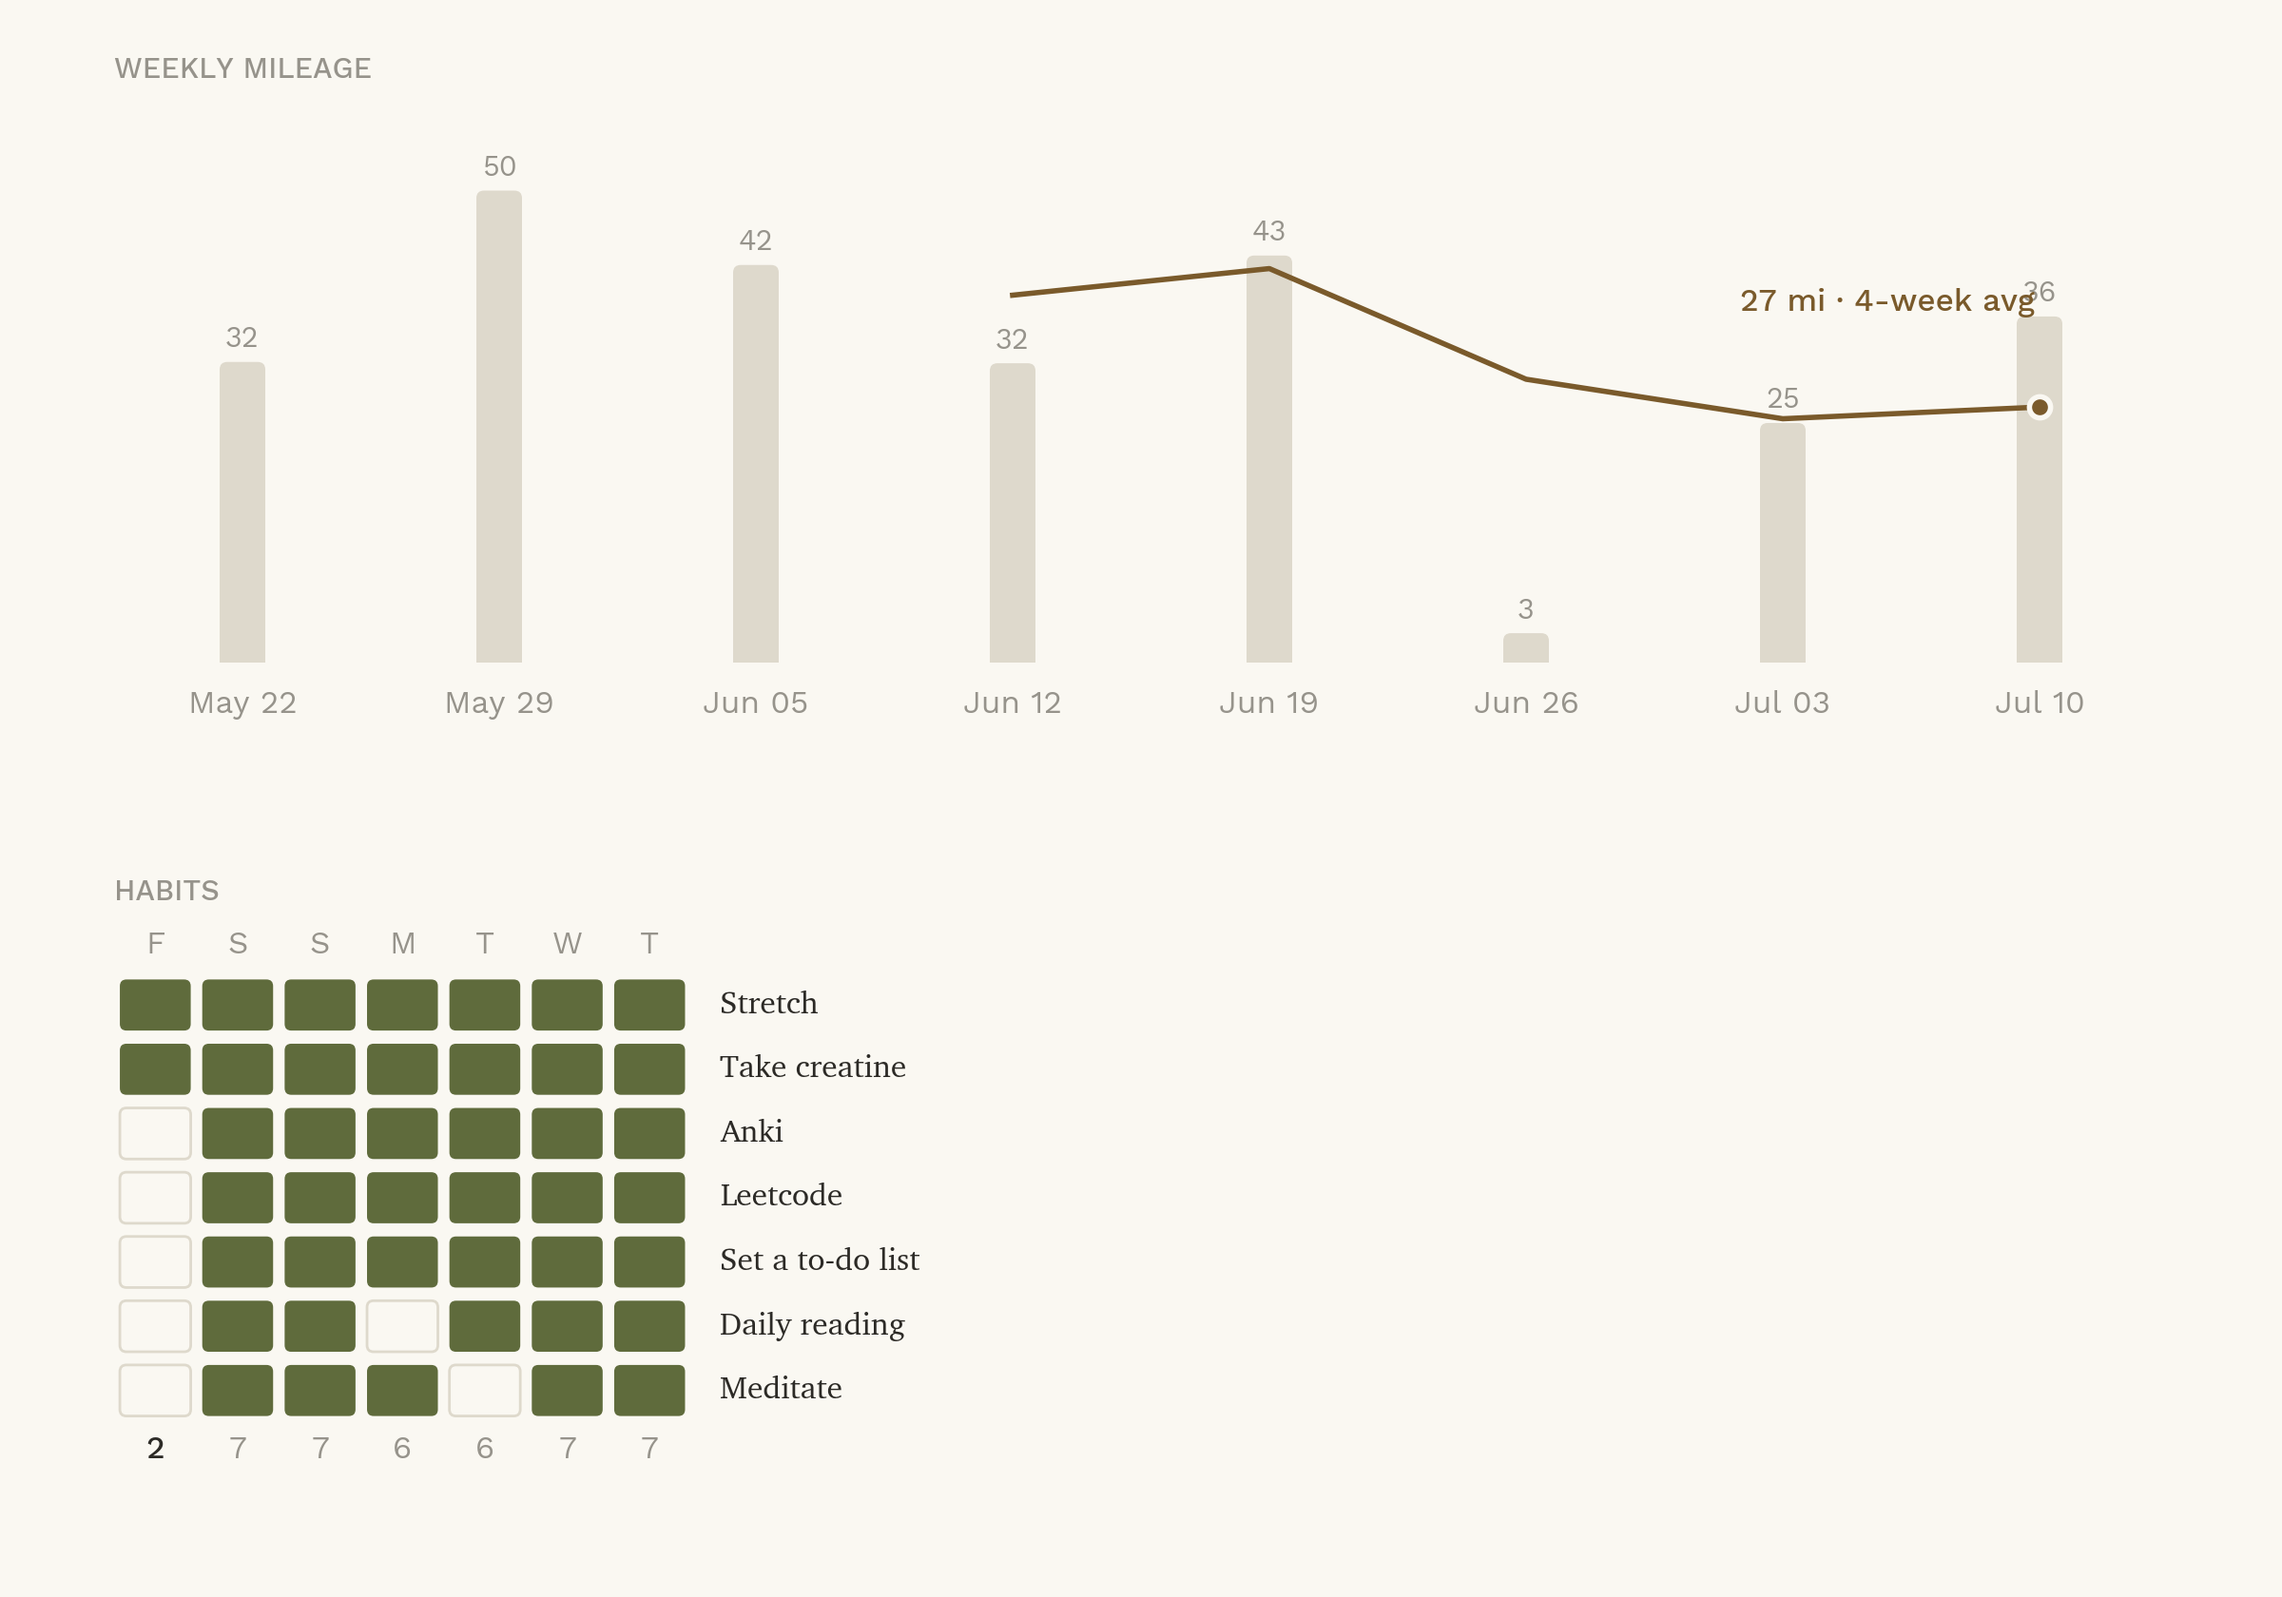
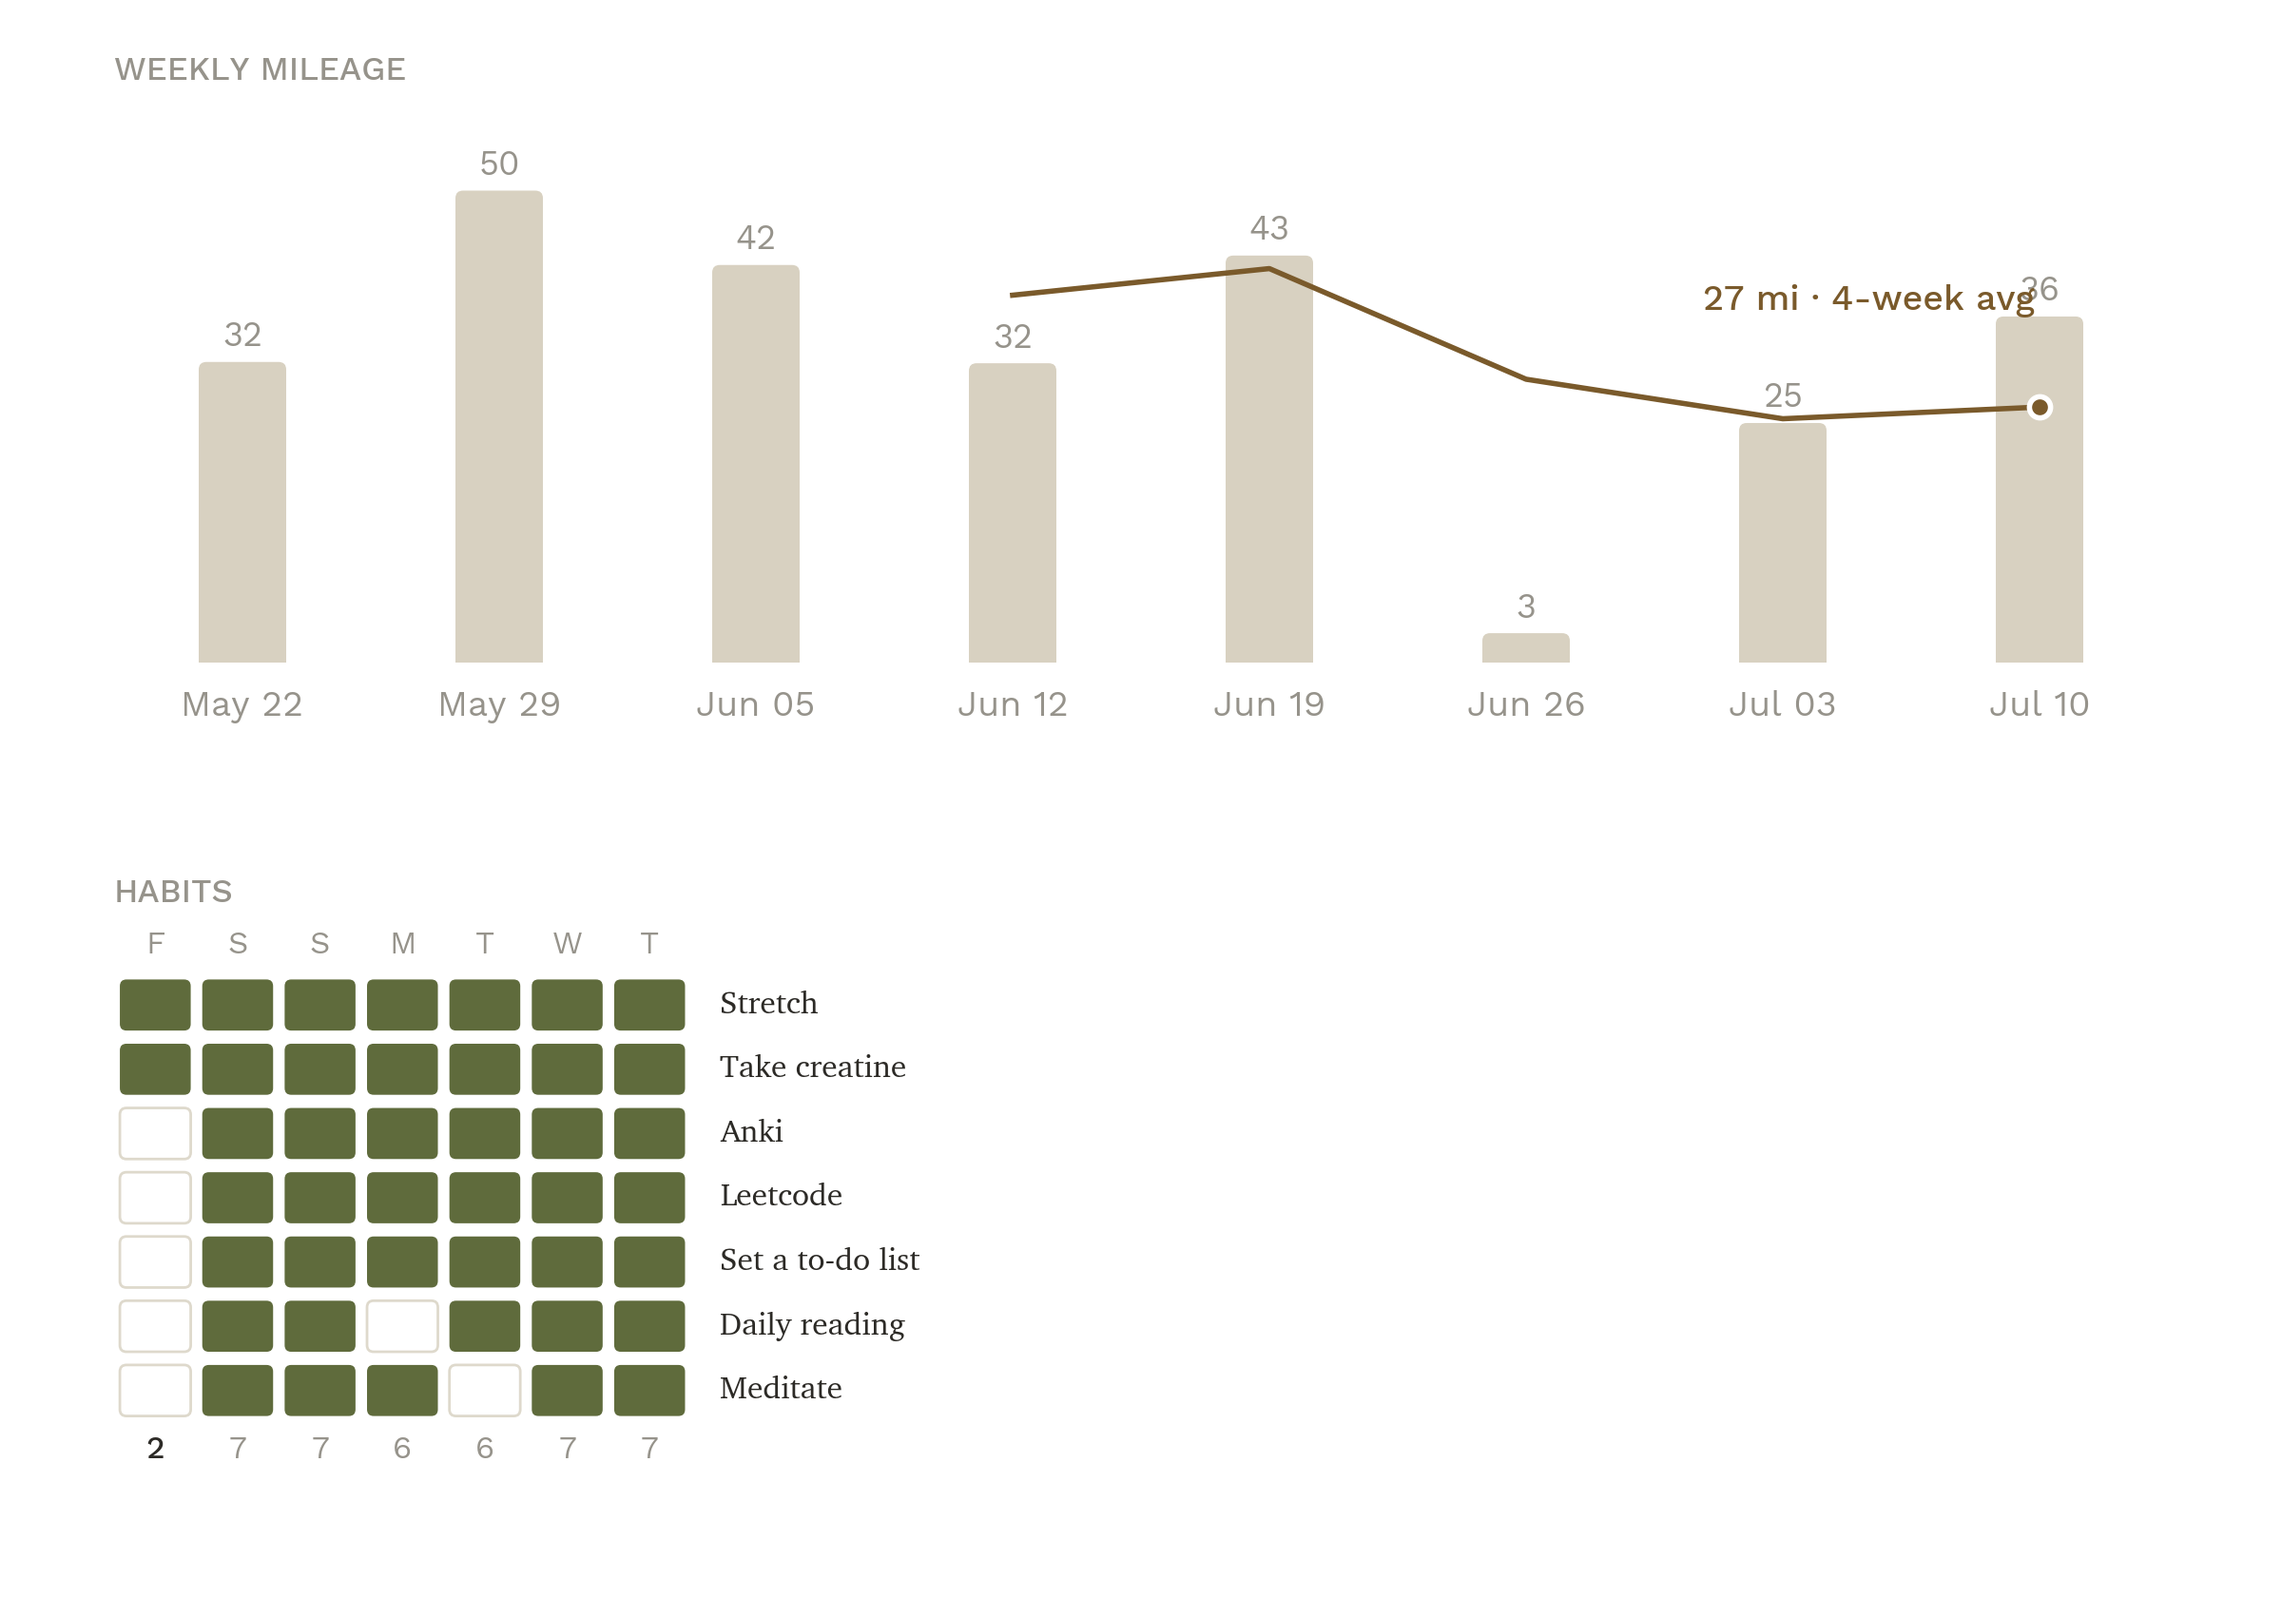
Weekly figures: drop the cream ground, scale up, arbtt goes categorical
On the site's white page the cream fill read as a tinted box rather than a
region of the page. Save every figure on a transparent ground (facecolors
none, savefig transparent) so the chart's whitespace merges with the page's;
the figure container is already borderless. Former knockout colours that
relied on the cream (running's endpoint halo, hgrid's miss cells, sleep's bar
separators) become white.

Scale the marks up: narrower figures (14->12in), fatter bars (BAR_MAX_PX
24->46), and larger value/day/section labels so they hold their own beside
16px body serif.

arbtt's activity mix was a dark->light lightness ramp, which read as an
ordering not in the data, and its near-white "Other" vanished on white. Give
the four buckets four categorical hues (rust / olive / slate / plum) instead.

W32: the arbtt log is recovered, so the weeknote's "no non-coding time" note
is now false; rewrite it around the real breakdown and add the arbtt figure.

Regenerate W29, W30, W32 from their own data.

diff --git a/weekly/wtheme.py b/weekly/wtheme.py
@@ -49,12 +49,15 @@ def apply():
         "font.family": "sans-serif",
         "font.sans-serif": FONT_STACK,
         "font.size": 11,
-        "figure.facecolor": CREAM,
+        # Transparent grounds: the figures sit on the site's white page, so a
+        # cream fill would read as a tinted box rather than a region of the page.
+        "figure.facecolor": "none",
         "figure.dpi": 150,
-        "savefig.facecolor": CREAM,
+        "savefig.facecolor": "none",
+        "savefig.transparent": True,
         "savefig.bbox": "tight",
 
-        "axes.facecolor": CREAM,
+        "axes.facecolor": "none",
         "axes.edgecolor": AXIS,
         "axes.linewidth": 1.0,
         "axes.spines.top": False,
@@ -89,7 +92,7 @@ def apply():
         "legend.frameon": True,
         "legend.fancybox": True,
         "legend.edgecolor": "#e7e4dc",
-        "legend.facecolor": CREAM,
+        "legend.facecolor": "white",
         "legend.framealpha": 1.0,
         "legend.borderpad": 0.6,
         "legend.handlelength": 1.2,

diff --git a/weekly/hgrid.py b/weekly/hgrid.py
@@ -34,7 +34,7 @@ INK = "#2c2a26"          # primary — the outlier day count only
 SECONDARY = "#2c2a26"    # habit labels
 MUTED = "#96938b"        # day labels + counts
 HIT = "#5f6b3c"          # completed cell (olive green, site palette)
-MISS_FILL = "#faf8f2"    # not-completed cell fill (cream — reads as empty)
+MISS_FILL = "#ffffff"    # not-completed cell fill (white — reads as empty on the page)
 HAIRLINE = "#ded9cc"     # warm-gray outline on miss cells
 
 CELL_W = 0.86      # box width (fraction of the unit column pitch)

diff --git a/notes-log.md b/notes-log.md
@@ -576,7 +576,7 @@ This file is generated by `scripts/registry` (run automatically by
 - 2026-08-03 · `note` · [QTSW](trees/evergreen/QTSW.tree) — MESI in Murphi
 - 2026-08-05 · `note` · [KZR4](trees/evergreen/KZR4.tree) — [Scaling Book](scaling-book): Exercises
 - 2026-08-05 · `note` · [LEM3](trees/evergreen/LEM3.tree) — Kellen's favorite quotes
-- 2026-08-06 · `note` · [RCNT](trees/evergreen/RCNT.tree) — What I've been thinking about
+- 2026-08-05 · `note` · [RCNT](trees/evergreen/RCNT.tree) — What I've been thinking about
 - 2026-08-06 · `note` · [TAAK](trees/evergreen/TAAK.tree) — Notebook: [[scaling-book]]
 - 2026-08-07 · `blog` · [1PZ2](trees/evergreen/1PZ2.tree) — Unpacking [Ragged Paged Attention](jiangRaggedPagedAttention2026)
 - 2026-08-07 · `note` · [NR79](trees/evergreen/NR79.tree) — Lifecycle of a JAX program
